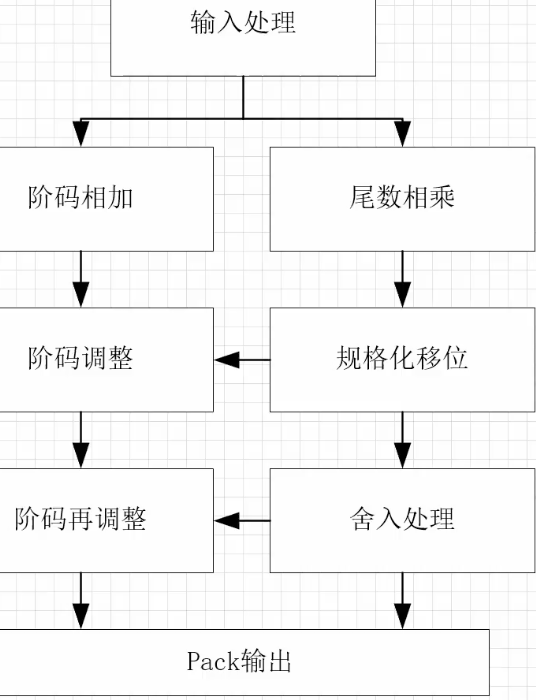
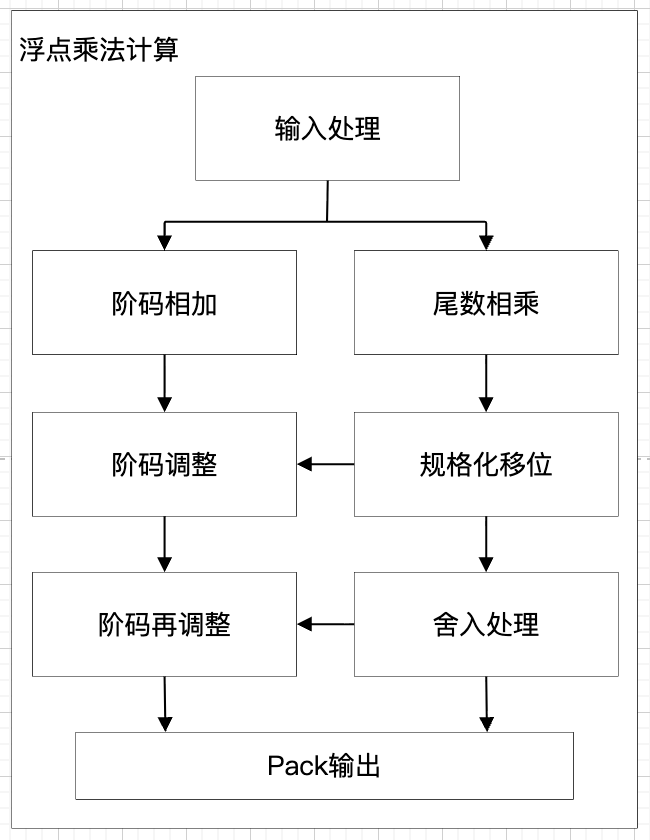
fp32

diff --git a/README.md b/README.md
@@ -35,31 +35,27 @@
    - `output wire o_fp32_output_overflow;` Indicates if the output has overflow
    - `output wire o_fp32_output_underflow;` Indicates if the output has underflow
 3. 内部逻辑描述: 
-
-    <center><img src="./README.md.pic/image.png" width="40%"></center>
+   
+   <center><img src="./README.md.pic/image.png" width="40%"></center>
 
    1. 输入处理: 
       - 把 A、B 拆成符号 s、指数 e、尾数 f $\in [1,2)$; 并处理特殊情况: 
-        - e = 0 && f = 0: 0
-        - e = 255 && f = 0: inf
-        - e = 255 && f != 0: NaN
-        - e = 0 && f != 0: denormal/ subnormal
-      - 符号处理 s_output = s_a XOR s_b
-   2. 尾数相乘 [47:0] f_output_initial = 1.f_a * 1.f_b $\in [1,4)$ ([47:46]是整数部分, [45:0]是小数部分), 再移位置 [47:0] f_output ([47:46]是整数部分, [45:0]是小数部分)
-      - if (1 <= f_output_initial <2) f_output                                           = f_output_initial
-      - if (f_output_initial >=2) f_output = (f_output_initial >> 1)
-   3. 阶码相加 [8:0] e_output_initial = e_a - 127 + e_b, 根据尾数是否移位再调整 [8:0] e_output
-      - if (1 <= f_output_initial <2) e_output = e_output_initial 
-      - if (1 <= f_output_initial <2) e_output = e_output_initial + 1
-   4. 尾数舍入处理: 因为尾数相乘会产生比 23 位更多的位数，最后只能存 23 位 [22:0] f_output_rounded，所以要按规则截断。这里使用: RNE算法
-   5. if f_output 全是 1 (1.1111 舍入进位 → 10.0000), 尾数 & 阶码 需要再调整:
-      - 尾数 [22:0] f_output_final = f_output_rounded >> 1 
-      - 阶码 e_output = e_output_initial + 1
-   6. overflow/underflow 监测
-      - (这里可省略) 阶码第一次相加后，if e_output_initial = e_a - 127 + e_b >= 255, 产生overflow
-      - 阶码再调整后，if e_output >= 255, 产生overflow
-      - 阶码再调整后，if e_output <= 0, 产生underflow
-   7. 通路选择
+        - 如果 e = 0 并且 f = 0，则认为输入数是 0
+        - 如果 e = 255 并且 f = 0，则认为输入数是 inf
+        - 如果 e = 255 并且 f != 0，则认为输入数是 NaN
+        - 如果 e = 0 并且 f != 0，则认为输入数是 denormal/ subnormal
+      - 决定输出的符号位 = 输入 a 的符号位和输入 b 的符号位的XOR的结果
+   2. 尾数相乘 `[47:0] f_multi` = 1.f_a * 1.f_b $\in [1,4)$ 
+      - 注：`f_multi[47:46]`代表整数部分, `f_multi[45:0]`代表小数部分
+   3. 阶码相加 `signed [9:0] e_add` = e_a - 127 + e_b
+   4. 规格化移位对尾数和阶码的调整：如果尾数乘积结果大于等于2，则需要右移一位，并且阶码加1。调整后得到 `[47:0] f_multi_shift`, `signed [9:0] e_add_shift`
+   5. 尾数舍入处理: 因为尾数相乘会产生比 23 位更多的位数，最后只能存 23 位 `[24:0] f_round`，所以要按规则截断多余的23位。这里使用: RNE算法。
+      - 注：`f_round[24:23]`代表整数部分, `f_multi[22:0]`代表应该要存的23位小数部分
+   6. 处理一种特殊情况：如果 `f_multi_shift` 的整数部分是 1.1111...1，在舍入处理后 `f_round` 会变成 10.0000...0，这时需要将尾数再次移位（调整为 01.0000...0），并且阶码再次加1。调整后得到 `[22:0] f_out`, `signed [9:0] e_out`
+   7. overflow/underflow 监测
+      - 如果 `e_out` >= 255, 则表明产生overflow
+      - 如果 `e_out` <= 0, 则表明产生underflow
+   8. 通路选择并且包装输出 `[31:0] out`
       ```verilog
       if (is_NaN) {1'b0, 8'hff, 23'h1}
       else if (is_inf) {s_output, 8'hff, 23'h0}
@@ -68,17 +64,17 @@
       else if (overflow) {s_output, 8'hff, 23'h0}
       else 原乘法计算结果
       ```
-4. 补充: 截断规则
+4. 补充: 截断规则。假设 `[47:0] f_multi_shift` 是截断前的数，`[24:0] f_round`是截断后的数
    - RZ算法: 直接截断
    - 正无穷舍入:
-     - 对正数: 只要 f_output [22:0] 有1, f_output_rounded = f_output [45:23] + 1;
+     - 对正数: 只要 `f_multi_shift [22:0]` 有1, `f_round = f_multi_shift [47:23] + 1`;
      - 对负数: 直接截断
-   - 正向四舍五入:
+   - 正向四舍五入: 假设 R 位是 `f_multi_shift[22]`, S 位是 `|(f_multi_shift[21:0])`
      - 正数
-        - 如果被丢掉的部分明显>=一半/ f_output[22] == 1: 进 1
-        - 如果明显<一半/ f_output[22] == 0: 不变
+        - 如果被丢掉的部分明显>=一半，也就是说 R位是1: 进 1
+        - 如果明显<一半，也就是说 R位是0: 不变
       - 负数: 直接截断
-   - RNE算法:
-     - 如果被丢掉的部分>一半/ f_output[22] == 1 && f_output[21:0] != 0: 进 1
-     - 如果<一半: 不变
-     - 如果=一半 / f_output[22] == 1 && f_output[21:0] == 0: 如果最后保留位是奇数, 进 1; 是偶数, 不变Special
+   - RNE算法: 假设 R 位是 `f_multi_shift[22]`, S 位是 `|(f_multi_shift[21:0])`
+     - 如果被丢掉的部分>一半，也就是说 R位是1并且S位是1: 进 1
+     - 如果<一半，也就是说 R位是0: 不变
+     - 如果=一半，也就是说 R位是1并且S位是0: 如果最后保留位`f_multi_shift[23]`是奇数, 进1; 是偶数, 不变Special
